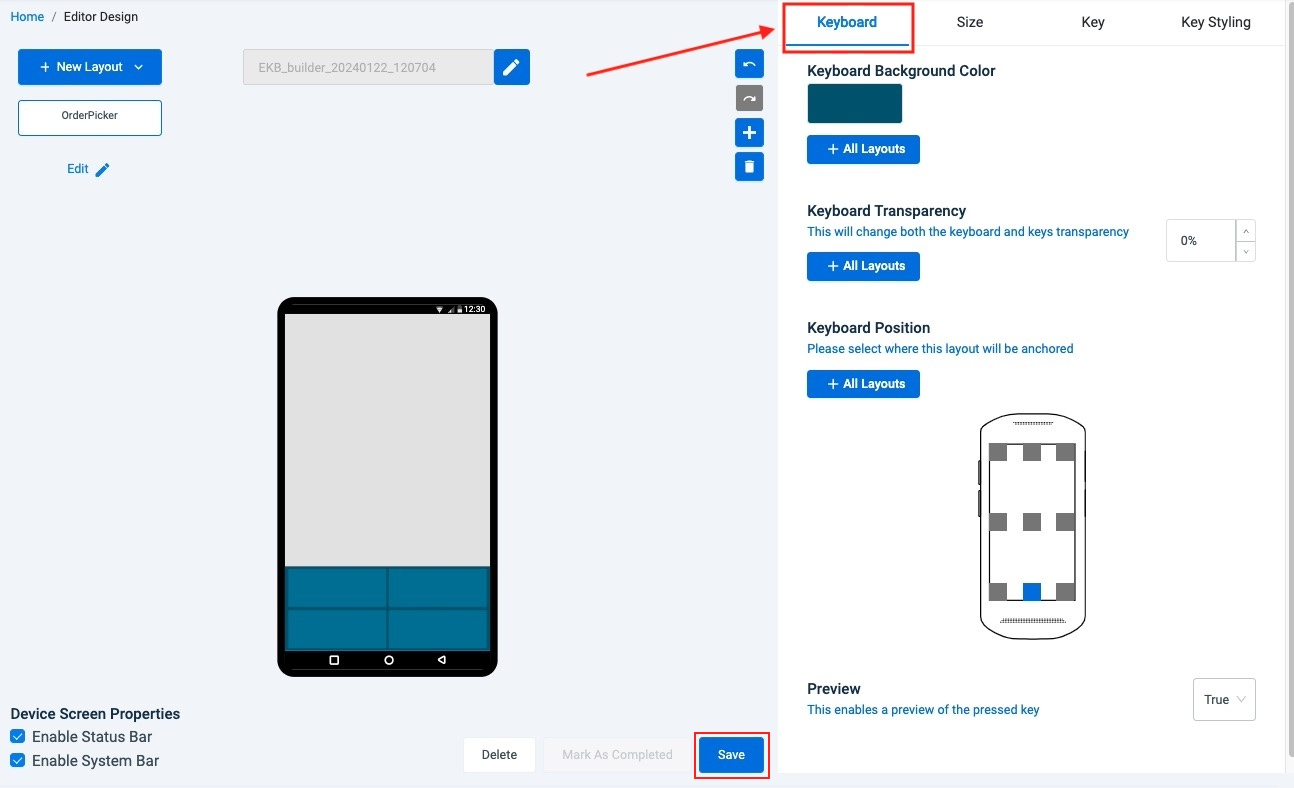
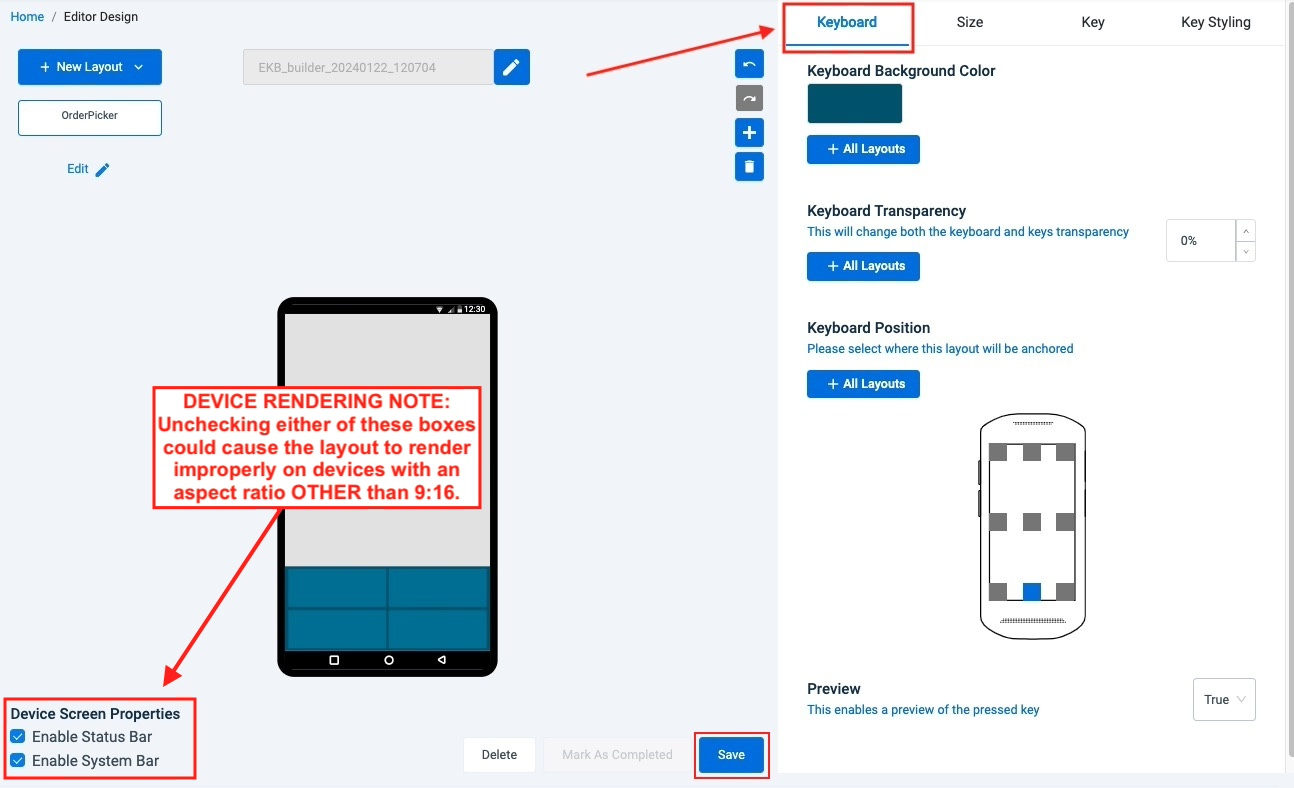
[DLM-31970] EKB DS rendering note, per eng

diff --git a/zebradna/3-10/design/ekd_usage/index.html b/zebradna/3-10/design/ekd_usage/index.html
@@ -813,6 +813,10 @@ The list of the Macro's key events appears.
 <li><strong>System Bar -</strong> Used to show/hide the System (navigation) bar at the bottom of the device simulator screen. The layout “Top” coordinate changes based on this setting, which depends on System bar setting configured at the application level. <strong>Must be hidden for full-screen applications</strong>. </li>
 </ul>
 
+<blockquote>
+  <p><i class="fa fa-exclamation-circle" style="color:#FF0000;"></i> <strong>Unchecking either of these boxes could cause the layout to render improperly on devices with an aspect ratio <em>OTHER</em> than 9:16</strong>. </p>
+</blockquote>
+
 <hr>
 
 <h2 id="alsosee" class="anchor"><a class="heading-anchor" href="#alsosee"><span></span></a>Also See</h2>

diff --git a/zebradna/3-10/usage/index.html b/zebradna/3-10/usage/index.html
@@ -1065,7 +1065,7 @@ https://jira.zebra.com/browse/DLM-8112
 
 <ol>
 <li><p>On the Zebra Collection tab, <strong>click the "Setup" button on the app to be installed</strong>:<br>
-Alternatively, click "New Setup" to choose from a list of Zebra apps. 
+Alternatively, click "New Setup" to choose from a list of Zebra apps: 
 <img alt="image" style="height:350px" src="zva_01.png">
 <em>Click image to enlarge; ESC to exit.</em>
 <br></p></li>
